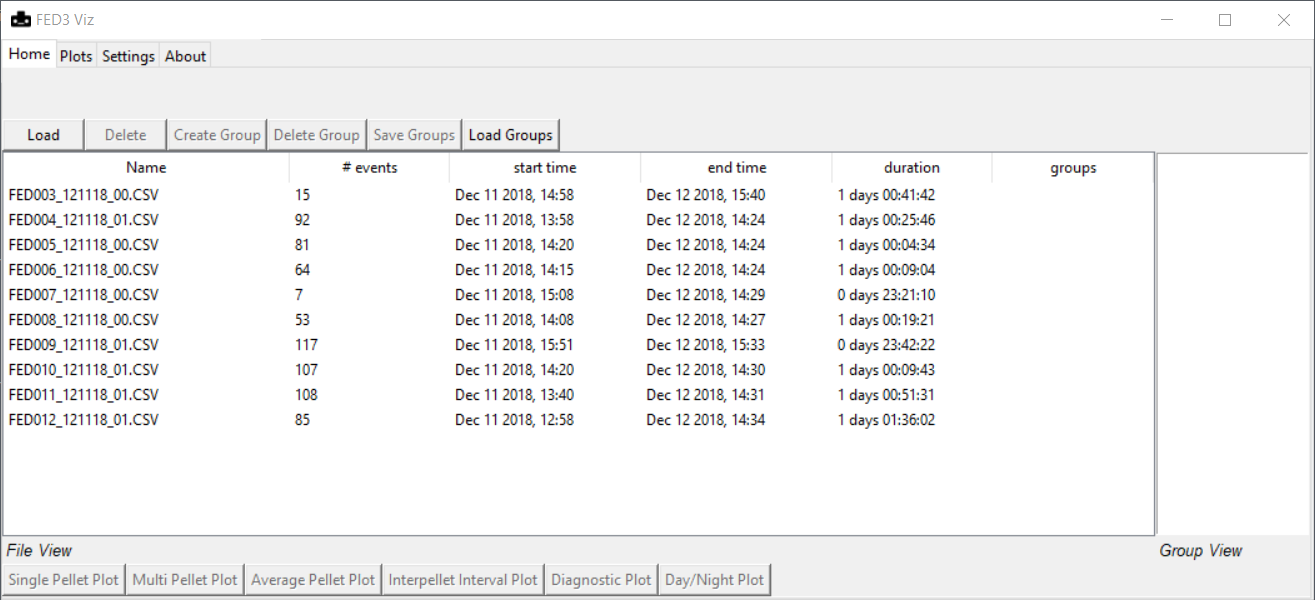
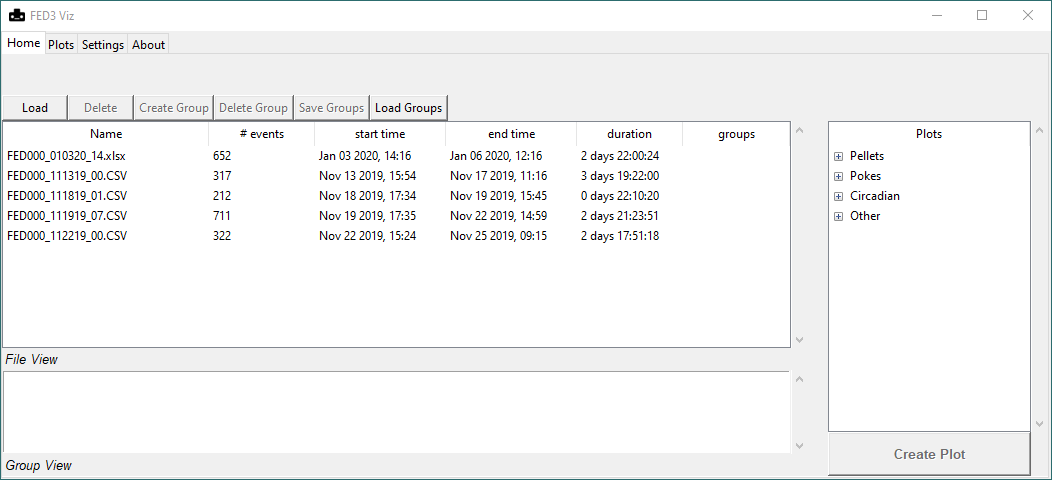
added grouped ipi, updating manual readme

diff --git a/FED3_Viz/fed3viz.py b/FED3_Viz/fed3viz.py
@@ -134,6 +134,7 @@ class FED3_Viz(tk.Tk):
         self.plot_treeview.insert(self.ps_pellet, 2, text='Multi Pellet Plot')
         self.plot_treeview.insert(self.ps_pellet, 3, text='Average Pellet Plot')
         self.plot_treeview.insert(self.ps_pellet, 4, text='Interpellet Interval')
+        self.plot_treeview.insert(self.ps_pellet, 5, text='Group Interpellet Interval')
         self.ps_poke = self.plot_treeview.insert("", 2, text='Pokes')
         self.plot_treeview.insert(self.ps_poke, 1, text='Single Poke Plot')
         self.plot_treeview.insert(self.ps_poke, 2, text='Average Poke Plot (Correct)')
@@ -203,6 +204,7 @@ class FED3_Viz(tk.Tk):
                                 'Multi Pellet Plot':'Plot pellets received for multiple devices (no averaging)',
                                 'Average Pellet Plot':'Plot average pellets received for grouped devices (groups make individual curves)',
                                 'Interpellet Interval':'Plot histogram of intervals between pellet retrievals',
+                                'Group Interpellet Interval':'Plot histogram of intervals between pellet retrievals for groups',
                                 'Single Poke Plot':'Plot the amount of correct or incorrect pokes',
                                 'Average Poke Plot (Correct)':'Plot average correct pokes for grouped devices (groups make individual curves)',
                                 'Average Poke Plot (Error)':'Plot average error pokes for grouped devices (groups make individual curves)',
@@ -219,6 +221,7 @@ class FED3_Viz(tk.Tk):
                                 'Multi Pellet Plot':self.pellet_plot_multi_TK,
                                 'Average Pellet Plot':self.avg_plot_TK,
                                 'Interpellet Interval':self.interpellet_plot_TK,
+                                'Group Interpellet Interval':self.group_ipi_TK,
                                 'Day/Night Plot':self.daynight_plot_TK,
                                 'Diagnostic Plot':self.diagnostic_plot_TK,
                                 'Single Poke Plot':self.poke_plot_single_TK,
@@ -930,6 +933,26 @@ class FED3_Viz(tk.Tk):
         self.draw_figure(new_plot)
         self.raise_figure(fig_name)
 
+    def group_ipi_TK(self):
+        args_dict = self.get_current_settings_as_args()
+        args_dict['FEDs'] = self.LOADED_FEDS
+        if self.allgroups_val.get():
+            groups = self.GROUPS
+        else:
+            ints = [int(i) for i in self.group_view.curselection()]
+            groups = [self.GROUPS[i] for i in ints]
+        args_dict['groups'] = groups
+        fig = plots.group_interpellet_interval_plot(**args_dic)
+        plotdata = getdata.group_interpellet_interval_plot(**args_dict)
+        fig_name = self.create_plot_name('Group Interpellet Interval Plot')
+        new_plot_frame = ttk.Frame(self.plot_container)
+        new_plot = FED_Plot(figure=fig, frame=new_plot_frame,
+                            figname=fig_name, plotfunc=plots.group_interpellet_interval_plot,
+                            arguments=args_dict, plotdata=plotdata,)
+        self.PLOTS[fig_name] = new_plot
+        self.draw_figure(new_plot)
+        self.raise_figure(fig_name)
+
     def diagnostic_plot_TK(self):
         to_plot = [int(i) for i in self.files_spreadsheet.selection()]
         FEDs_to_plot = [self.LOADED_FEDS[i] for i in to_plot]
@@ -1104,7 +1127,7 @@ class FED3_Viz(tk.Tk):
                 self.button_create_plot.configure(state=tk.DISABLED)
         elif text in ['Average Pellet Plot', 'Day/Night Plot', 'Chronogram (Line)',
                       'Average Poke Plot (Correct)','Average Poke Plot (Error)',
-                      'Average Poke Bias Plot']:
+                      'Average Poke Bias Plot', 'Group Interpellet Interval']:
             #if the all groups box is checked
             if self.allgroups_val.get():
                 #if there are any groups

diff --git a/FED3_Viz/plots/plots.py b/FED3_Viz/plots/plots.py
@@ -371,6 +371,41 @@ def interpellet_interval_plot(FEDs, kde, *args, **kwargs):
     
     return fig
 
+def group_interpellet_interval_plot(FEDs, groups, kde, *args, **kwargs):
+    if not isinstance(FEDs, list):
+        FEDs = [FEDs]
+    for FED in FEDs:
+        assert isinstance(FED, FED3_File),'Non FED3_File passed to interpellet_interval_plot()'
+        
+    fig, ax = plt.subplots(figsize=(4,5), dpi=125)
+    lowest = -2
+    highest = 5
+    ylabel = 'Density Estimation' if kde else 'Count'
+    ax.set_ylabel(ylabel)
+    ax.set_xlabel('minutes between pellets')
+    ax.set_xticks(range(lowest,highest))
+    ax.set_xticklabels([10**num for num in range(-2,5)])
+    ax.set_title('Interpellet Interval Plot')
+    c=0
+    bins = []
+    while c <= highest:
+        bins.append(lowest+c)
+        c+=0.1
+    for group in groups:
+        all_vals = []
+        for FED in FEDs:
+            if group in FED.group:
+                df = FED.data
+                y = df['Interpellet_Intervals'][df['Interpellet_Intervals'] > 0]
+                y = [np.log10(val) for val in y if not pd.isna(val)]
+                all_vals += y
+        sns.distplot(all_vals,bins=bins,label=group,ax=ax,norm_hist=False,
+                     kde=kde)
+        ax.legend(fontsize=8)
+        plt.tight_layout()
+    
+    return fig
+
 #---Average Pellet Plots
 
 def average_plot_ondatetime(FEDs, groups, dependent, average_bins, average_error, shade_dark,
@@ -473,6 +508,7 @@ def average_plot_ontime(FEDs, groups, dependent, average_bins, average_align_sta
             if group in file.group:
                 df = file.data.resample(average_bins,base=average_align_start)
                 y = df.apply(resample_get_yvals, dependent)
+                return y
                 first_entry = y.index[0]
                 aligned_first_entry = dt.datetime(year=1970,month=1,day=1,
                                                   hour=first_entry.hour)

diff --git a/FED3_Viz/getdata/getdata.py b/FED3_Viz/getdata/getdata.py
@@ -246,6 +246,44 @@ def interpellet_interval_plot(FEDs, kde, *args, **kwargs):
     bar_output.index.name = 'log10(minutes)'
     return kde_output, bar_output       
 
+def group_interpellet_interval_plot(FEDs, groups, kde, *args, **kwargs):
+    kde_output = pd.DataFrame()
+    bar_output = pd.DataFrame()
+    lowest = -2
+    highest = 5
+    c=0
+    bins = []
+    while c <= highest:
+        bins.append(lowest+c)
+        c+=0.1
+    for group in groups:
+        #made to not disrupt fig in app            
+        fig = plt.figure()
+        plt.clf()
+        all_vals = []
+        for FED in FEDs:
+            if group in FED.group:             
+                df = FED.data
+                y = df['Interpellet_Intervals'][df['Interpellet_Intervals'] > 0]
+                y = [np.log10(val) for val in y if not pd.isna(val)]
+                all_vals += y
+        plot = sns.distplot(all_vals,bins=bins,label=group,kde=kde,
+                            norm_hist=False)
+        if kde:
+            kde = plot.get_lines()[0].get_data()
+            kde_dic = {group:kde[1]}
+            kde_df = pd.DataFrame(kde_dic, index=kde[0])
+            kde_output = kde_output.join(kde_df, how='outer')
+        bar_x = [v.get_x() for v in plot.patches]
+        bar_h = [v.get_height() for v in plot.patches]
+        bar_dic = {group:bar_h}
+        bar_df = pd.DataFrame(bar_dic, index=bar_x)
+        bar_output = bar_output.join(bar_df, how='outer')
+        plt.close()      
+    kde_output.index.name = 'log10(minutes)'
+    bar_output.index.name = 'log10(minutes)'
+    return kde_output, bar_output       
+
 def daynight_plot(FEDs, groups, circ_value, lights_on, lights_off, circ_error,
                   *args, **kwargs):
     output = pd.DataFrame()

diff --git a/FED3_Viz/_version.py b/FED3_Viz/_version.py
@@ -1,2 +1,2 @@
-__version__ = 'BETA 0.0.2'
+__version__ = 'BETA 0.1.0'
 __date__  = '4/29/2020'

diff --git a/Manual.md b/Manual.md
@@ -7,10 +7,9 @@
 </p>
 
 
+**Written for version**: v0.1.0 (beta)
 
-**Written for version**: v0.0.2 (beta)
-
-**Date of creation**: April 27th, 2020
+**Date of creation**: May 8th, 2020
 
 **GitHub**: [https://github.com/earnestt1234/FED3_Viz](https://github.com/earnestt1234/FED3_Viz)
 
@@ -104,13 +103,12 @@ The **Home Tab** is the tab that is open when FED3 Viz starts up.  On this tab, 
 </p>
 Elements of the Home Tab:
 
-1. The **Info Bar** shows text describing button functions on the Home Tab.  Hover the mouse over a button and the Info Bar will give a brief description of that button's function.
+1. The **Info Bar** shows helpful text for the Home Tab.  Hover over a button or select a plot to show a brief description.
 2. The top row of buttons, which are tools for loading and managing data files within FED3 Viz.
 3. The **File View** is the largest element of the Home Tab.  When a FED data file is loaded, it will appear as a row in the File View.  Each column will show data associated with that data file.
 4. The **Group View** lists all the currently loaded "groups," used for combining data from multiple FEDs (see the "Groups" section below).
-5. The bottom row of buttons, which correspond to buttons used to create plots.
-
-Whether or not a button is active depends on what data have been loaded into the application; for example, most plotting buttons must have some files selected in order to be active.
+5. The **Plot Selector** pane, where you can choose which plots to make for the loaded devices.
+6. The **Create Plot Button**, which creates a plot based on the loaded device files and the selection in the Plot Selector.  Whether or not this button is active depends on what data have been loaded into the application; for example, most plotting buttons must have some files selected in order to be active.
 
 ### Plots Tab
 
@@ -189,7 +187,7 @@ An error message pop-up may be raised if there are any issues encountered during
 - Unrecognized: the file(s) was not recognized as FED3 data.  This error means that the program failed to load the data.  This can occur from attempts to read non `.csv` or `.xlsx` files, or from correct file types that differ significantly from the standard FED3 file format.  This error can not be suppressed.
 - Missing Data: the file(s) is missing at least one of the default columns.  This means that the file was loaded, but it may be missing some columns which are used by FED3 Viz for plotting; it is meant to serve as a warning that some plots may be unavailable or may produce unexpected results.  This error can occur when the raw data has been edited to remove or rename columns, or when using an earlier version of FED3 Arduino code.  This error can be suppressed by unticking **Settings > General > Show missing column warning when loading.**
 
-Further discussion of problems with loading may be brought up in the [FAQ](#FAQ) as the application develops.  Additionally, the description of each plot in the "Plots" section below will list the data columns required by each plot.
+Further discussion of problems with loading may be brought up in the [FAQ](#FAQ) as the application develops.  Additionally, the dependent columns of each plot can be viewed in the Appendix.
 
 ### File View
 
@@ -262,8 +260,9 @@ Group files associated **file names** with **Group names**.  In this way, files 
 The general steps to create a plot are:
 
 - Select the desired settings from the Settings Tab (if applicable)
-- Select the FED files to include in the plot
-- Press a plot button from the bottom row of the Home Tab
+- Select the FED files to include in the plot, either by clicking or by Grouping
+- Highlight the desired plotting function from the Plot Selector
+- Hit the Create Plot Button
 
 This section will go through the plot buttons currently available in the Home Tab and describe the plots they create.
 
@@ -271,7 +270,14 @@ There are a couple settings which apply to multiple plots:
 
 - *Shading dark periods*:  When enabled, applicable plots will have a light gray shading during periods when the lights are off - this can help for detecting circadian patterns of activity.  This setting can be toggled from **Settings > General > Shade dark periods (lights on/off)**.  The start and and time of the dark period can be selected using the dropdown menus next to this setting. Plots which make use of this feature will include a :new_moon_with_face: symbol in their description
 - *Using Groups*: Some plots aggregate data and rely on Groups.  By default, plots which rely on Groups will **plot all Groups present in the Group View**; you can instead use the Group View to select which Groups to include by unticking **Settings > General > For plots using groups, include all loaded groups rather than those selected**.  Plots that utilize groups will be tagged with a :paperclip: symbol in their description.
-- *Handling multiple selections*: For plots that don't use Groups, the data to plot depends on which loaded FED data are highlighted.  More than one file can be highlighted at once, and there are two main ways the program deals with this.  Buttons that combine the highlighted files into one graph are marked by :bar_chart:, while buttons that create multiple plots (one for each highlighted file) are marked by :bar_chart::bar_chart::bar_chart:.  
+- *Handling multiple selections*: For plots that don't use Groups, the data to plot depends on which loaded FED data are highlighted.  More than one file can be highlighted at once, and there are two main ways the program deals with this.  Buttons that combine the highlighted files into one graph are marked by :bar_chart:, while buttons that create multiple plots (one for each highlighted file) are marked by :bar_chart::bar_chart::bar_chart:.
+- *Pellet & Poke Averaging:*  Several plots that average data on pellet retrieval and pokes rely on specific settings for determining the method of averaging across a time series.  These settings occur under the heading **Averaging (Pellet & Poke Plots)**, and plots that use them will include a 🧮 symbol in their description.  These settings include:
+  - **Error value for average plots:**  How to show the spread of data.  Options are SEM (standard error of the mean), STD (standard deviation), raw data (data for each device shown around the average), or None.
+  - **Bin size for averaging (hours):** how frequently to average data (must be done as pellets are logged to the second)
+  - **Alignment method for averaging:**  How to deal with alignment of time series.  The three options are:
+    - **shared date & time**: The program only averages over *absolute date & time*; i.e. only FEDs that were active at the same time can be averaged, and averaging can only be done for the window of time where **all** FEDs in the Groups are active (a warning will be raised if there is no such window for the selected devices).  This option makes sense for experiments where devices were started and ended at the same time.
+    - **shared time**: The program averages over time of day but disregards the date; i.e., the program aligns the files to the first occurrence of a selected time, and then creates an average.  This setting requires you to specify the **Start time & length of averaging (time/days)** (what time of day to align the data to and how many days to try and average).  This option makes sense for experiments where devices were recording on different days or from different cohorts of mice, but you want circadian patterns to be preserved.
+    - **elapsed time**: The program disregards both time of day and data and instead averages over the elapsed recording time.  This options makes sense for experiments where you want to visualize mice activity relative to the start of each recording, and you want to disregard the time of day when the recording was created.
 
 ### Single Pellet Plot
 
@@ -330,7 +336,7 @@ Settings specific to these plots are under **Settings > Average Pellet Plots > A
 
 - **Bin size for averaging (hours):** how frequently to average data (must be done as pellets are logged to the second)
 
-- **Align average plots to the same start time:**  When unticked (default), the program only average  over *absolute date & time*; i.e. only FEDs that were active at the same time can be averaged, and averaging can only be done for the window of time where **all** FEDs in the Groups are active.  When ticked, the data are aligned such that the same hours of the day are averaged for each Group.  This opens up two more options:
+- **Align average plots to the same start time:**  When unticked (default), the program only averages  over *absolute date & time*; i.e. only FEDs that were active at the same time can be averaged, and averaging can only be done for the window of time where **all** FEDs in the Groups are active.  When ticked, the data are aligned such that the same hours of the day are averaged for each Group.  This opens up two more options:
 
   - **Start time**: the time of day to start taking an average - data before this time on the first day of recording will be ignored
   - **No. days**: how many days to try and average data for, since the **Start time** on the first day.

diff --git a/README.md b/README.md
@@ -81,11 +81,8 @@ Moreover, we will certainly consider and try to meet any requests for additional
 
 Some features that I aim to integrate:
 
-- more plots for active/inactive pokes (also errors)
 - recognition of recording mode
 - progressive ratio breakpoint
-- 24 hour circadian plots
-- additional group averaging plots (e.g. for interpellet intervals)
 
 Things that would be great to get feedback on:
  - If you encounter any issue while using the program, like crashes or errors
